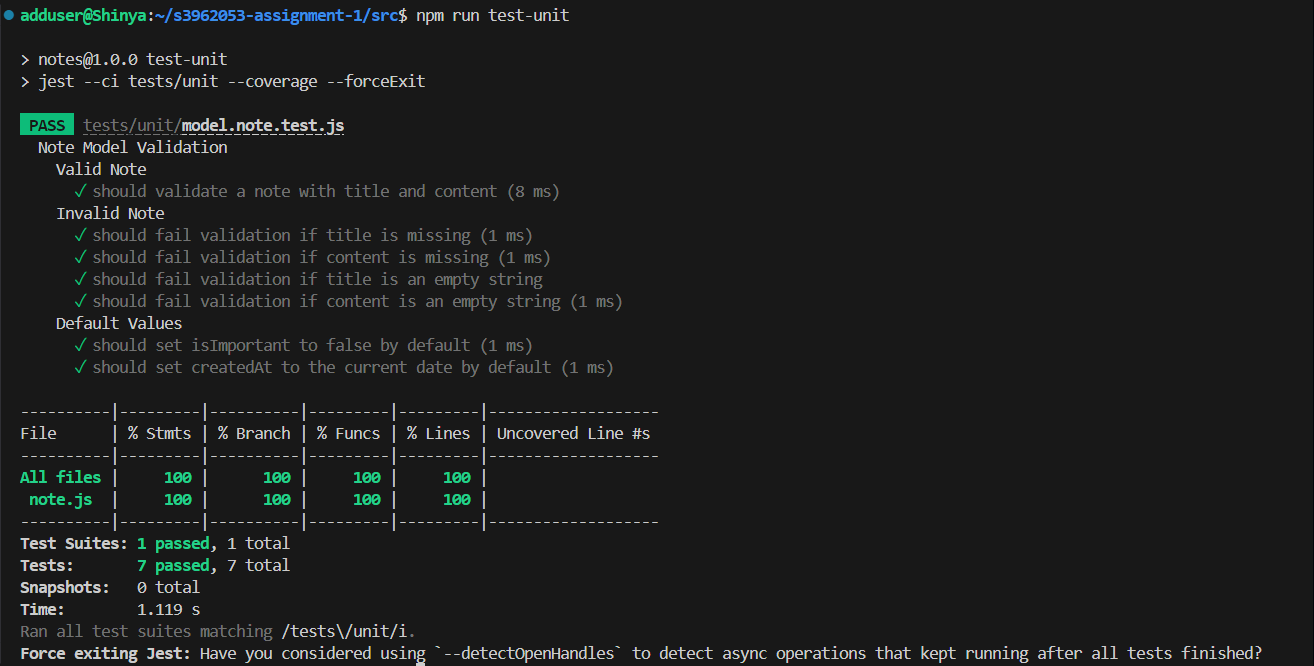
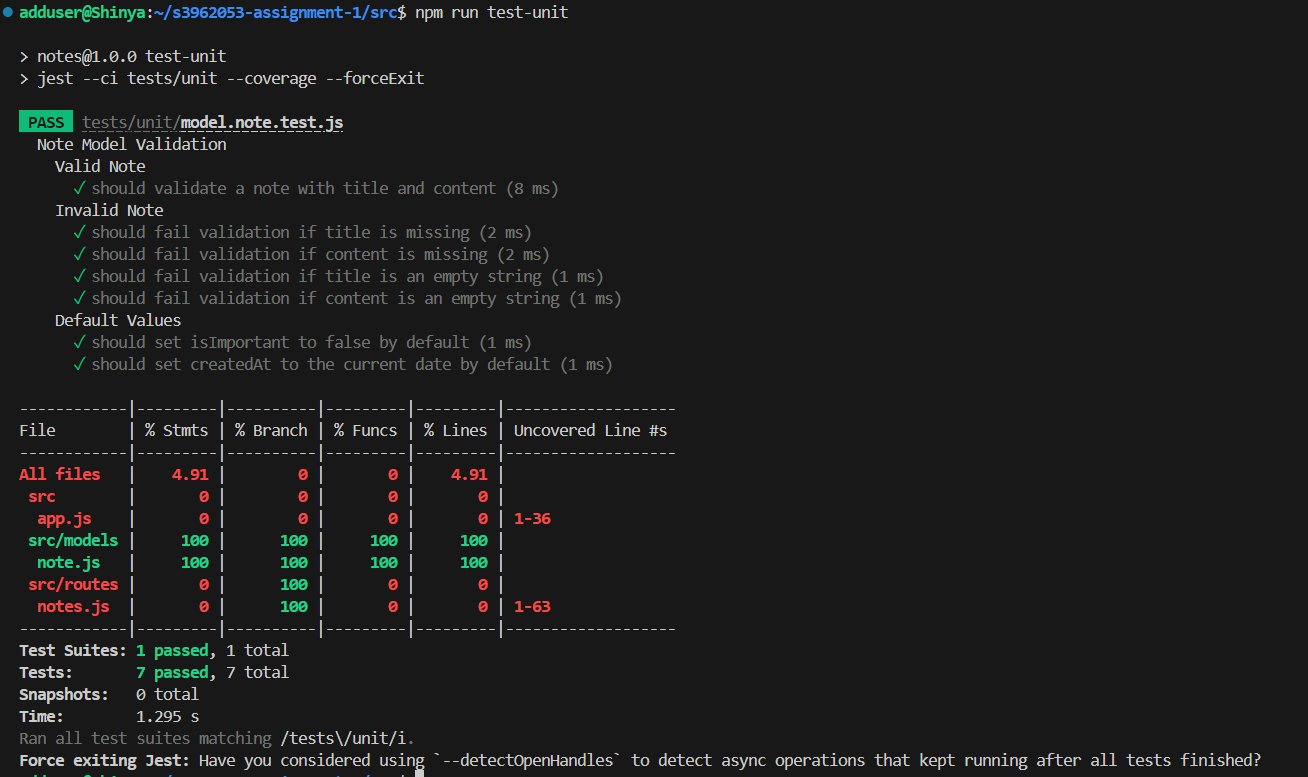
chore: Update coverage stats and screenshots in README.md

Changed region(s): [[0.0, 0.0601, 0.9786, 1.0], [0.0, 0.0, 0.4281, 0.03]]

diff --git a/src/playwright-report/index.html b/src/playwright-report/index.html
@@ -65,4 +65,4 @@ In order to be iterable, non-array objects must have a [Symbol.iterator]() metho
   </body>
 </html>
 <script>
[2 lines of base64/hex data omitted]

diff --git a/src/coverage/lcov-report/src/models/note.js.html b/src/coverage/lcov-report/src/models/note.js.html
@@ -136,7 +136,7 @@ module.exports = mongoose.model("Note", noteSchema);
             <div class='footer quiet pad2 space-top1 center small'>
                 Code coverage generated by
                 <a href="https://istanbul.js.org/" target="_blank" rel="noopener noreferrer">istanbul</a>
-                at 2024-08-13T05:23:37.165Z
+                at 2024-08-13T06:57:32.508Z
             </div>
         <script src="../../prettify.js"></script>
         <script>

diff --git a/src/coverage/lcov-report/src/routes/notes.js.html b/src/coverage/lcov-report/src/routes/notes.js.html
@@ -259,7 +259,7 @@ module.exports = router;
             <div class='footer quiet pad2 space-top1 center small'>
                 Code coverage generated by
                 <a href="https://istanbul.js.org/" target="_blank" rel="noopener noreferrer">istanbul</a>
-                at 2024-08-13T05:23:37.165Z
+                at 2024-08-13T06:57:32.508Z
             </div>
         <script src="../../prettify.js"></script>
         <script>

diff --git a/src/coverage/lcov-report/src/app.js.html b/src/coverage/lcov-report/src/app.js.html
@@ -178,7 +178,7 @@ module.exports = app;
             <div class='footer quiet pad2 space-top1 center small'>
                 Code coverage generated by
                 <a href="https://istanbul.js.org/" target="_blank" rel="noopener noreferrer">istanbul</a>
-                at 2024-08-13T05:23:37.165Z
+                at 2024-08-13T06:57:32.508Z
             </div>
         <script src="../prettify.js"></script>
         <script>

diff --git a/src/coverage/lcov-report/src/models/index.html b/src/coverage/lcov-report/src/models/index.html
@@ -101,7 +101,7 @@
             <div class='footer quiet pad2 space-top1 center small'>
                 Code coverage generated by
                 <a href="https://istanbul.js.org/" target="_blank" rel="noopener noreferrer">istanbul</a>
-                at 2024-08-13T05:23:37.165Z
+                at 2024-08-13T06:57:32.508Z
             </div>
         <script src="../../prettify.js"></script>
         <script>

diff --git a/src/coverage/lcov-report/src/routes/index.html b/src/coverage/lcov-report/src/routes/index.html
@@ -101,7 +101,7 @@
             <div class='footer quiet pad2 space-top1 center small'>
                 Code coverage generated by
                 <a href="https://istanbul.js.org/" target="_blank" rel="noopener noreferrer">istanbul</a>
-                at 2024-08-13T05:23:37.165Z
+                at 2024-08-13T06:57:32.508Z
             </div>
         <script src="../../prettify.js"></script>
         <script>

diff --git a/src/coverage/lcov-report/src/index.html b/src/coverage/lcov-report/src/index.html
@@ -101,7 +101,7 @@
             <div class='footer quiet pad2 space-top1 center small'>
                 Code coverage generated by
                 <a href="https://istanbul.js.org/" target="_blank" rel="noopener noreferrer">istanbul</a>
-                at 2024-08-13T05:23:37.165Z
+                at 2024-08-13T06:57:32.508Z
             </div>
         <script src="../prettify.js"></script>
         <script>

diff --git a/src/coverage/lcov-report/index.html b/src/coverage/lcov-report/index.html
@@ -131,7 +131,7 @@
             <div class='footer quiet pad2 space-top1 center small'>
                 Code coverage generated by
                 <a href="https://istanbul.js.org/" target="_blank" rel="noopener noreferrer">istanbul</a>
-                at 2024-08-13T05:23:37.165Z
+                at 2024-08-13T06:57:32.508Z
             </div>
         <script src="prettify.js"></script>
         <script>

diff --git a/README.md b/README.md
@@ -134,7 +134,7 @@ Expected Output:
   - Node.js should be installed and configured correctly without errors.
 - Screenshot:
   <div style="text-align: center;">
-      <img src="/img/CI Pipeline Stage 2 result.png" style="width: 200px; height: auto;" />
+      <img src="/img/CI Pipeline Stage 2 result.png" style="width: 1000px; height: auto;" />
   </div>
 
 3. Install Dependencies
@@ -153,7 +153,7 @@ yaml
   - All dependencies should be installed without any issues, preparing the environment for the following stages.
 - Screenshot:
   <div style="text-align: center;">
-      <img src="/img/CI Pipeline Stage 3 result.png" style="width: 200px; height: auto;" />
+      <img src="/img/CI Pipeline Stage 3 result.png" style="width: 1000px; height: auto;" />
   </div>
 
 4. Install Playwright Browsers
@@ -170,7 +170,7 @@ yaml
   - Playwright browsers should be installed successfully, with the environment ready for end-to-end tests.
 - Screenshot:
   <div style="text-align: center;">
-      <img src="/img/CI Pipeline Stage 4 result.png" style="width: 200px; height: auto;" />
+      <img src="/img/CI Pipeline Stage 4 result.png" style="width: 1000px; height: auto;" />
   </div>
 
 5. Run Linting
@@ -187,7 +187,7 @@ yaml
   - The linting process should complete successfully if there are no issues. If there are any linting errors, they will be reported, and the pipeline may fail at this stage.
 - Screenshot:
   <div style="text-align: center;">
-      <img src="/img/CI Pipeline Stage 5 result.png" style="width: 200px; height: auto;" />
+      <img src="/img/CI Pipeline Stage 5 result.png" style="width: 1000px; height: auto;" />
   </div>
 
 6. Run Unit Tests
@@ -204,10 +204,10 @@ yaml
   - The test results should indicate how many tests passed or failed. Code coverage information will also be displayed.
 - Screenshot:
   <div style="text-align: center;">
-      <img src="/img/CI Pipeline Stage 6 result.png" style="width: 200px; height: auto;" />
+      <img src="/img/CI Pipeline Stage 6 result.png" style="width: 1000px; height: auto;" />
   </div>
 
-7. Run Unit Tests
+7. Run Integration Tests
 - Action:
 yaml
 ```
@@ -221,7 +221,7 @@ Expected Output:
   - Integration tests should pass, showing that the application’s components are correctly integrated. Any failures will be reported in the output.
 - Screenshot:
   <div style="text-align: center;">
-      <img src="/img/CI Pipeline Stage 7 result.png" style="width: 200px; height: auto;" />
+      <img src="/img/CI Pipeline Stage 7 result.png" style="width: 1000px; height: auto;" />
   </div>
 
 8. Run End-to-End Tests
@@ -238,7 +238,8 @@ yaml
   - The results should show the success or failure of the end-to-end tests, with detailed error messages if any test fails.
 - Screenshot:
   <div style="text-align: center;">
-      <img src="/img/CI Pipeline Stage 8 result.png" style="width: 200px; height: auto;" />
+      <img src="/img/CI Pipeline Stage 8 result 1.png" style="width: 1000px; height: auto;" />
+      <img src="/img/CI Pipeline Stage 8 result 2.png" style="width: 1000px; height: auto;" />
   </div>
 
 9. Upload Code Coverage
@@ -257,8 +258,7 @@ yaml
   - The code coverage report should be successfully uploaded and available as an artifact in the CI pipeline.
 Screenshot:
   <div style="text-align: center;">
-      <img src="/img/CI Pipeline Stage 9 result 1.png" style="width: 200px; height: auto;" />
-      <img src="/img/CI Pipeline Stage 9 result 2.png" style="width: 200px; height: auto;" />
+      <img src="/img/CI Pipeline Stage 9 result.png" style="width: 1000px; height: auto;" />
   </div>
 
 10. Build Artifacts (Main Branch Only)
@@ -275,9 +275,9 @@ yaml
   - The build process should complete without errors, and the artifacts should be uploaded successfully.
 - Screenshot:
   <div style="text-align: center;">
-      <img src="/img/CI Pipeline Stage 10 result 1.png" style="width: 200px; height: auto;" />
-      <img src="/img/CI Pipeline Stage 10 result 2.png" style="width: 200px; height: auto;" />
-      <img src="/img/CI Pipeline Stage 10 result 3.png" style="width: 200px; height: auto;" />
+      <img src="/img/CI Pipeline Stage 10 result 1.png" style="width: 1000px; height: auto;" />
+      <img src="/img/CI Pipeline Stage 10 result 2.png" style="width: 1000px; height: auto;" />
+      <img src="/img/CI Pipeline Stage 10 result 3.png" style="width: 1000px; height: auto;" />
   </div>
 
 ## Commands and Functionalities
@@ -297,8 +297,8 @@ npm start
   - A message indicating that the server is running and listening on the specified port.
 - Screenshot:
   <div style="text-align: center;">
-      <img src="/img/npm start result 1.png" style="width: 200px; height: auto;" />
-      <img src="/img/npm start result 2.png" style="width: 200px; height: auto;" />
+      <img src="/img/npm start result 1.png" style="width: 1000px; height: auto;" />
+      <img src="/img/npm start result 2.png" style="width: 1000px; height: auto;" />
   </div>
 
 ### 2. Static Code Analysis (Linting)
@@ -315,7 +315,7 @@ npm run test-lint
   - If there are errors or warnings, the output will display them with details about the file and line number where the issue occurred.
 - Screenshot:
   <div style="text-align: center;">
-      <img src="/img/npm run test-lint result.png" style="width: 200px; height: auto;" />
+      <img src="/img/npm run test-lint result.png" style="width: 1000px; height: auto;" />
   </div>
 
 
@@ -334,7 +334,7 @@ npm run test-unit
   - Code coverage statistics indicating the percentage of code that was tested.
 - Screenshot: 
   <div style="text-align: center;">
-      <img src="/img/npm run test-unit result.png" style="width: 200px; height: auto;" />
+      <img src="/img/npm run test-unit result.png" style="width: 1000px; height: auto;" />
   </div>
 
 ### 4. Integration Testing
@@ -352,7 +352,7 @@ npm run test-integration
   - Code coverage statistics for the integrated components.
 - Screenshot: 
   <div style="text-align: center;">
-      <img src="/img/npm run test-integration result.png" style="width: 200px; height: auto;" />
+      <img src="/img/npm run test-integration result.png" style="width: 1000px; height: auto;" />
   </div>
 
 ### 5. End-to-End Testing
@@ -369,9 +369,9 @@ npm run test-e2e
   - Detailed error messages if any tests fail, including the part of the user flow that encountered an issue.
 - Screenshot:
   <div style="text-align: center;">
-      <img src="/img/npm run test-e2e result 1.png" style="width: 200px; height: auto;" />
-      <img src="/img/npm run test-e2e result 2.png" style="width: 200px; height: auto;" />
-      <img src="/img/npm run test-e2e result 3.png" style="width: 200px; height: auto;" />
+      <img src="/img/npm run test-e2e result 1.png" style="width: 1000px; height: auto;" />
+      <img src="/img/npm run test-e2e result 2.png" style="width: 1000px; height: auto;" />
+      <img src="/img/npm run test-e2e result 3.png" style="width: 1000px; height: auto;" />
   </div>
 
 
@@ -388,7 +388,7 @@ npm run build
   - Details on the build artifacts, including their location and size.
 - Screenshot:
   <div style="text-align: center;">
-      <img src="/img/npm run build result.png" style="width: 200px; height: auto;" />
+      <img src="/img/npm run build result.png" style="width: 1000px; height: auto;" />
   </div>
 
 ### 7. Running All Tests at Once
@@ -419,15 +419,18 @@ npm run test
   - This will open an HTML report that allows you to navigate through each test case, view screenshots, and analyze any failures.
 - Screenshot:
   <div style="text-align: center;">
-      <img src="/img/npm run test-e2e playwright report.png" style="width: 200px; height: auto;" />
+      <img src="/img/npm run test-e2e playwright report.png" style="width: 1000px; height: auto;" />
   </div>
 
-### Jest Code Coverage
+### Jest Code Coverage Report
 - Generating the Code Coverage Report: Code coverage is automatically generated when you run unit and integration tests using Jest.
 - Viewing the Report:
   - After running npm run test-unit or npm run test-integration, navigate to the coverage/lcov-report/index.html file to view the detailed coverage report.
   - Open the index.html file in your browser to see the coverage for each file in your codebase, including line-by-line details of which parts of the code were executed during the tests.
-- Screenshot
+- Screenshot:
+  <div style="text-align: center;">
+      <img src="/img/Jest Code Coverage report.png" style="width: 1000px; height: auto;" />
+  </div>
 
 ## Contribution Guidelines
 
